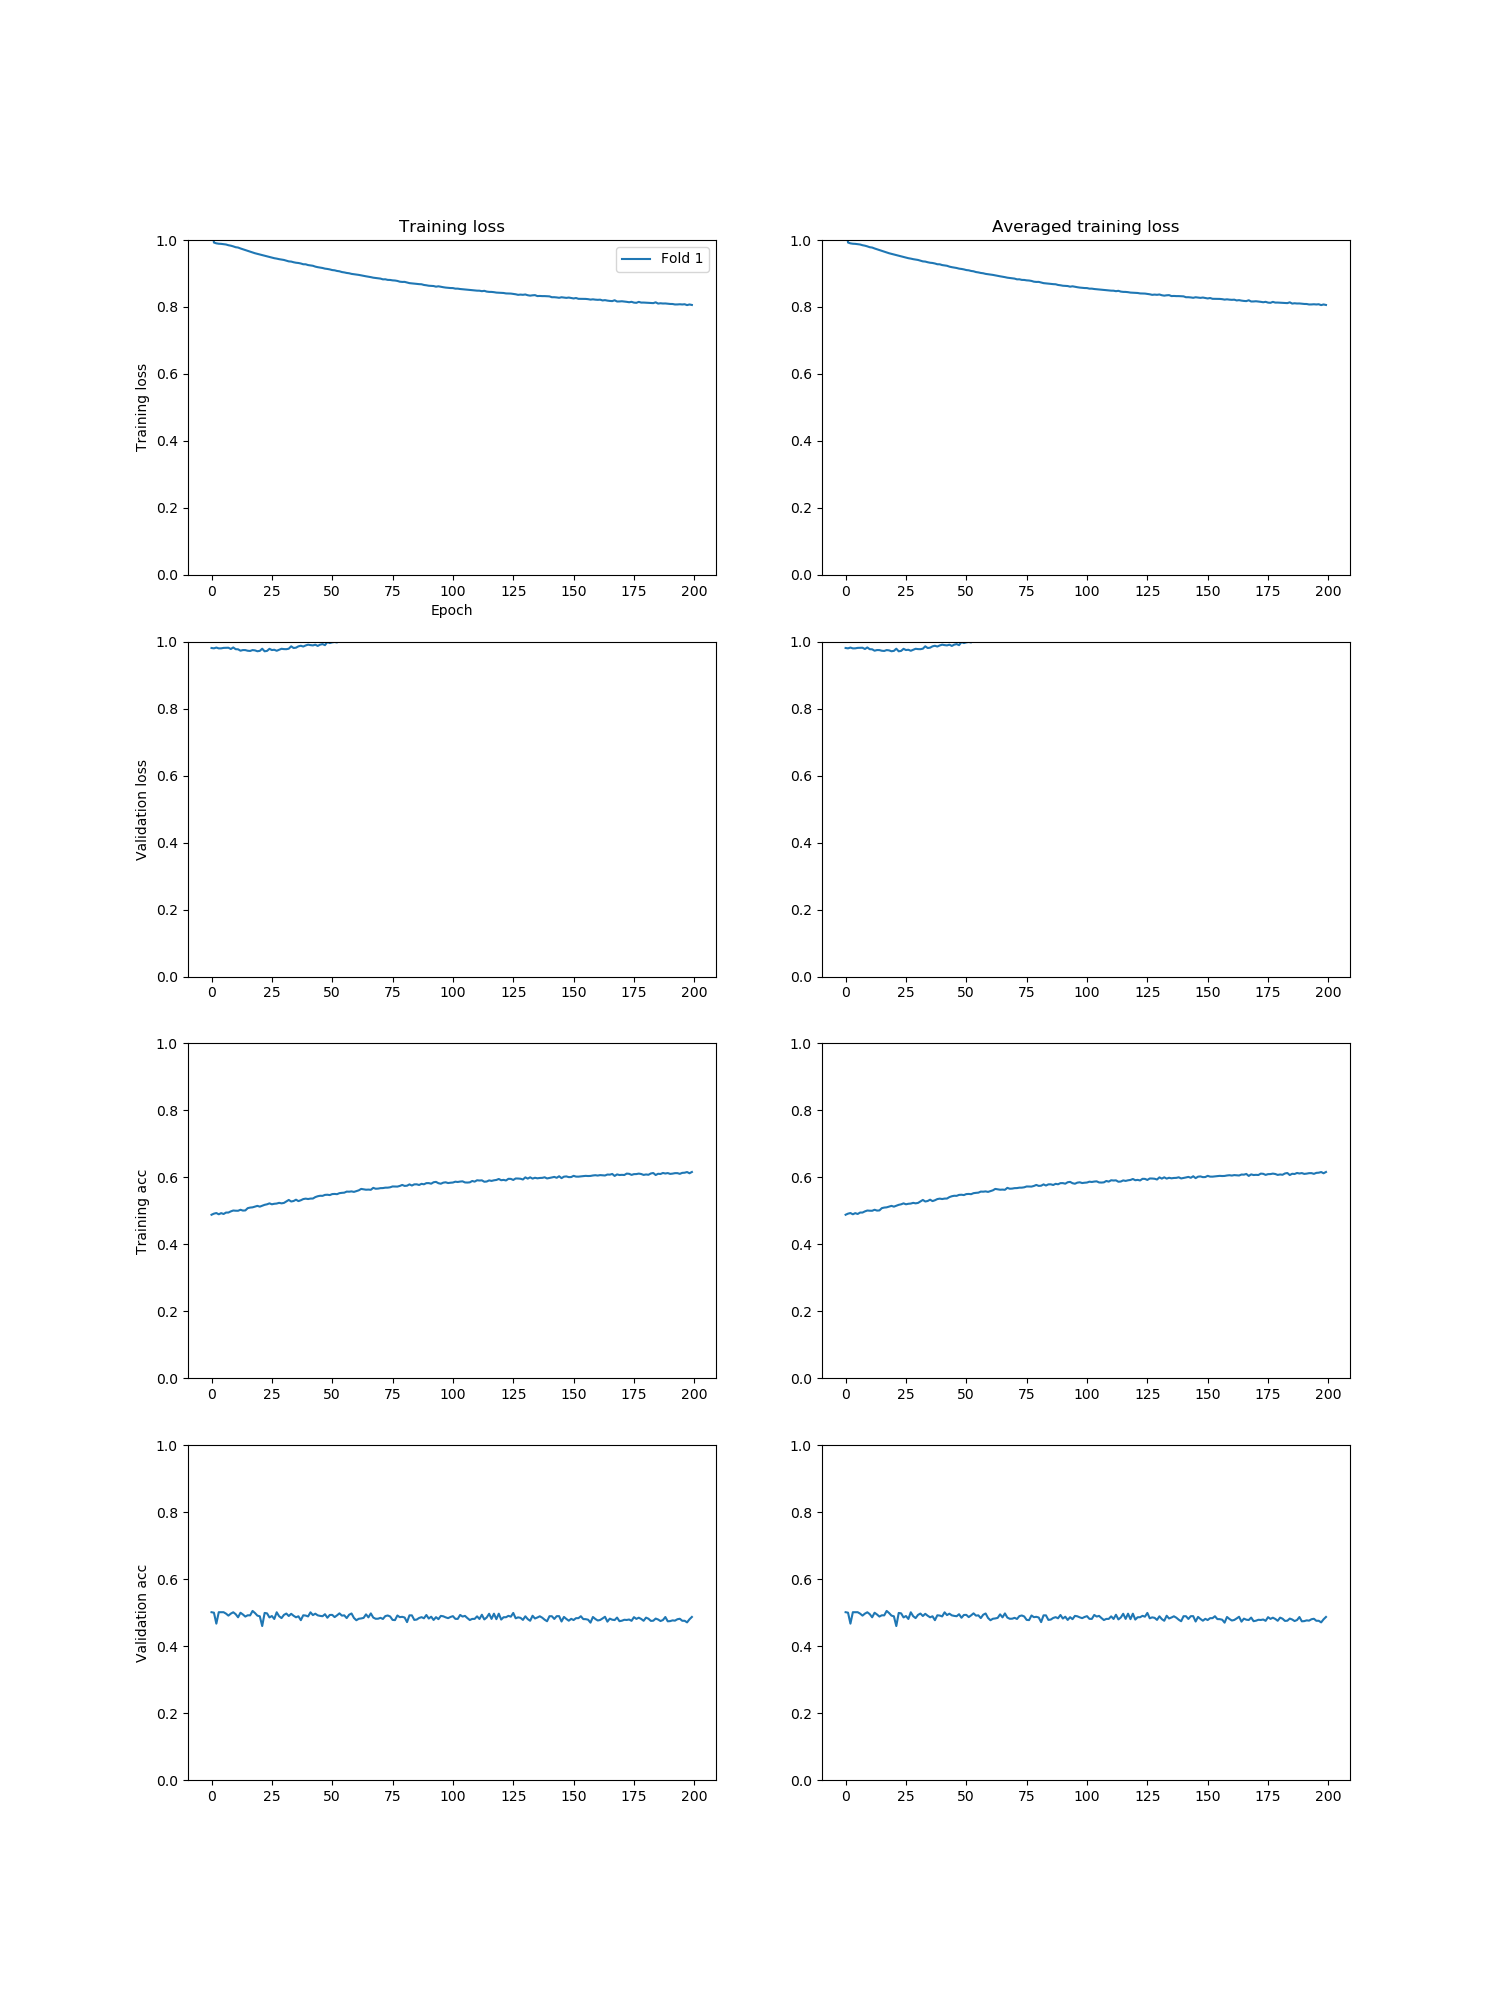
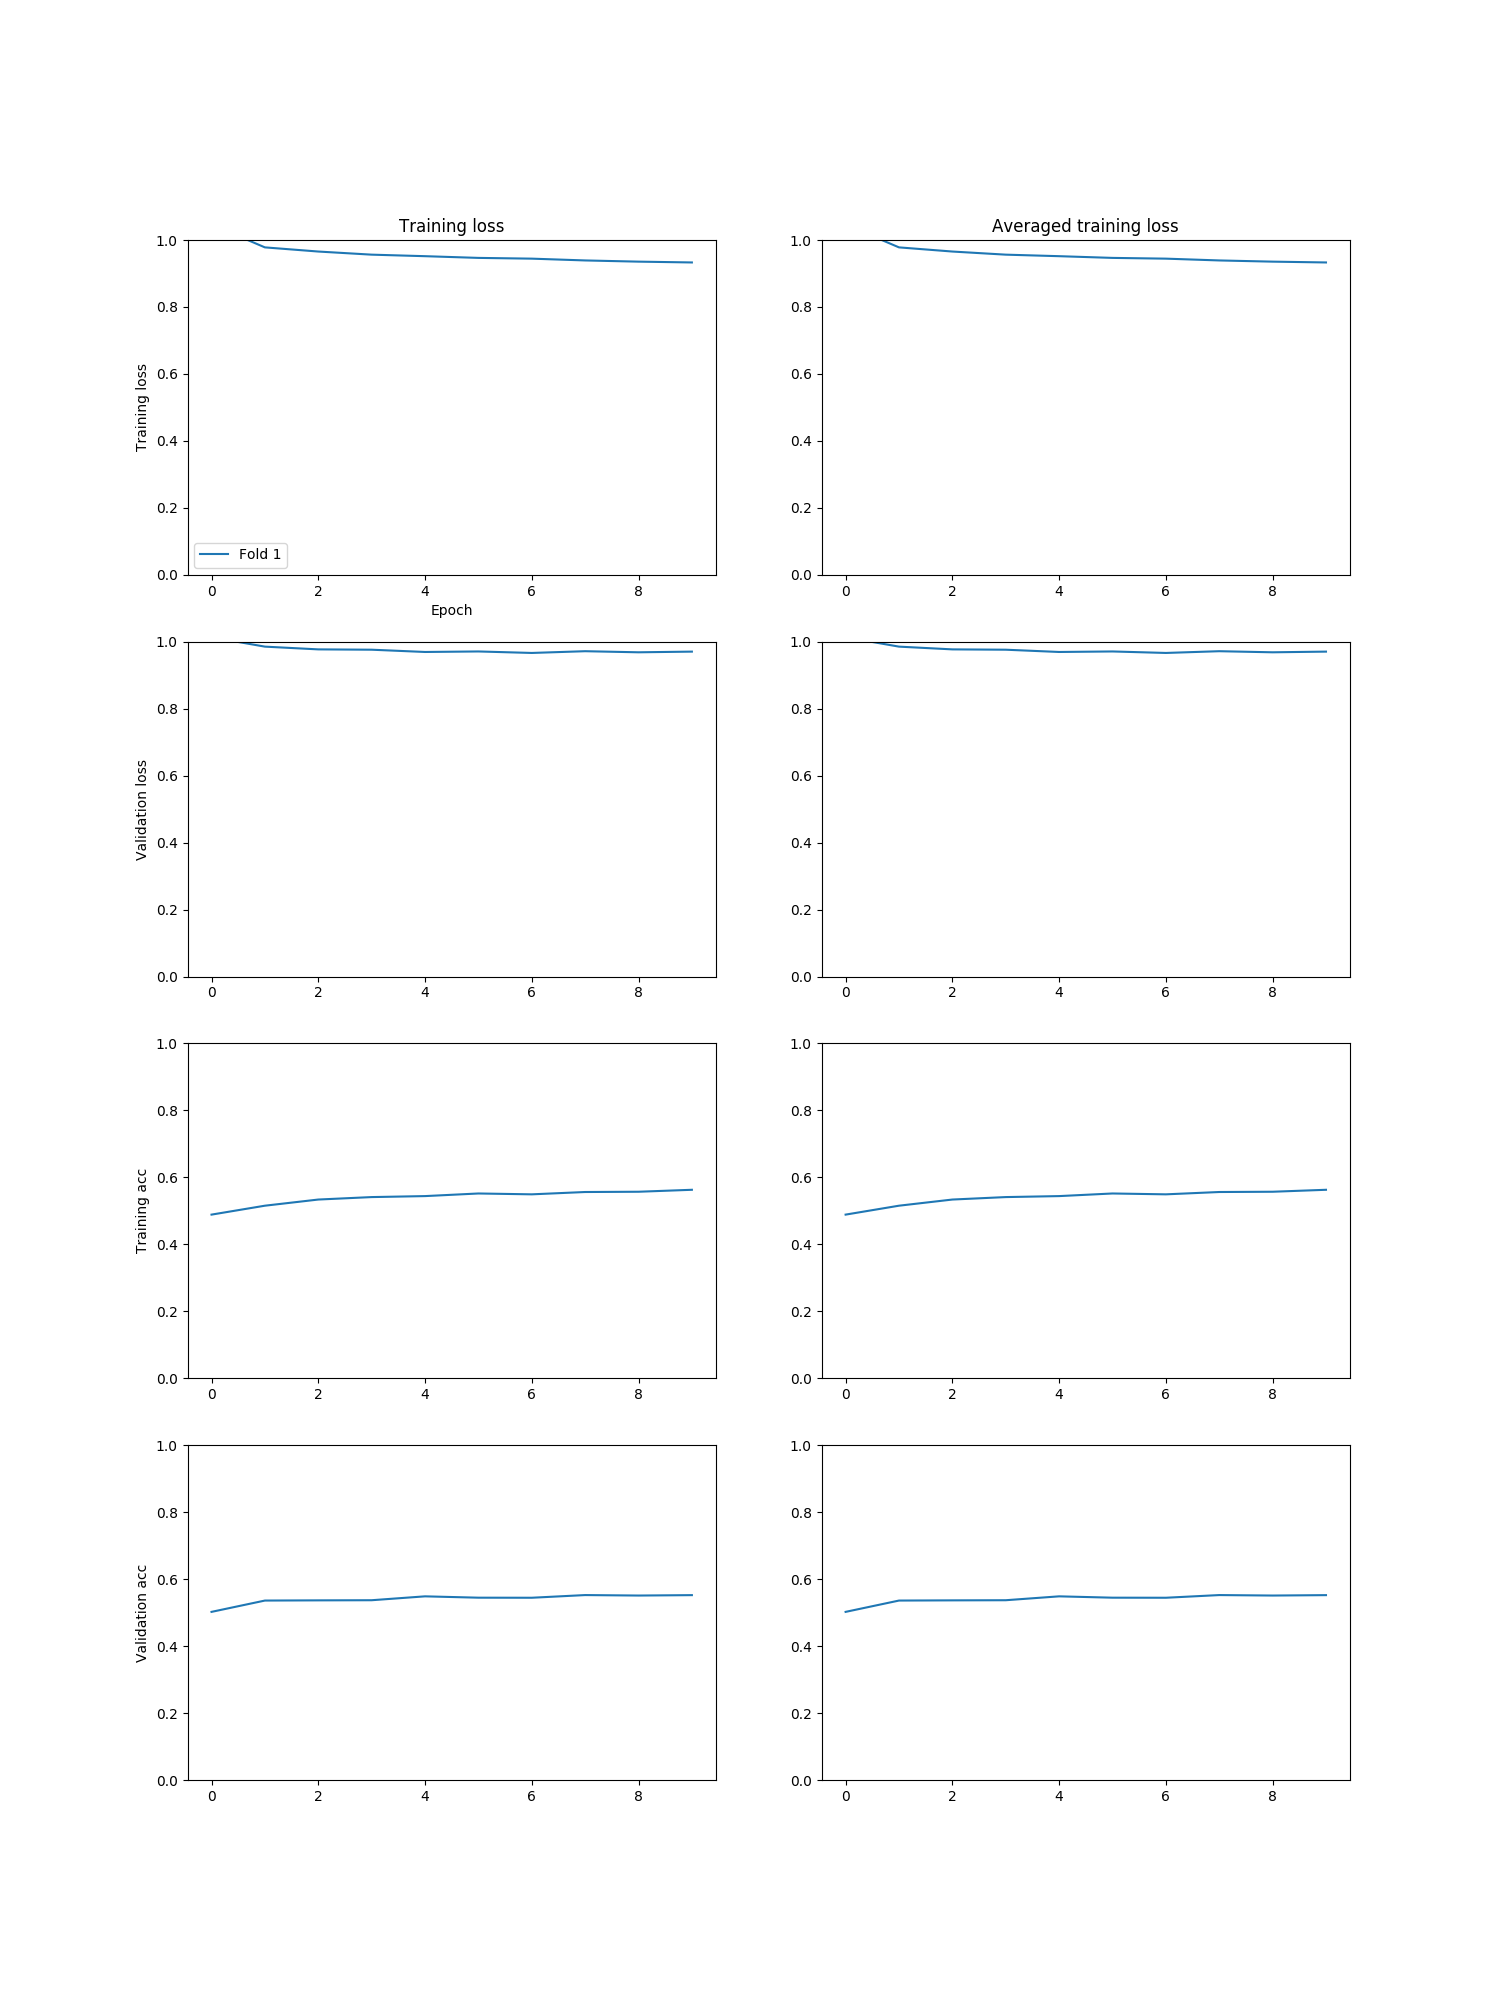
Version 2 without categorical input

Changed region(s): [[0.3987, 0.124, 0.46, 0.155], [0.736, 0.093, 0.7667, 0.124], [0.092, 0.589, 0.1227, 0.62]]

diff --git a/classification2.py b/classification2.py
@@ -4,7 +4,6 @@ import numpy as np
 from tensorflow.keras import Model
 from tensorflow.keras.layers import Input, Dense, concatenate
 from tensorflow.keras.optimizers import Adam
-from tensorflow.python.keras import utils
 
 from sklearn.metrics import roc_auc_score
 from sklearn.model_selection import KFold
@@ -27,41 +26,19 @@ def one_hot_encode(x: pd.Series) -> np.array:
 
 df_train = pd.read_csv('poker-hand-training-true.data', header=None, sep=',')
 
-features = df_train.iloc[:, :-1].copy()
-X_train = []
+X_train = df_train.iloc[:, 0:10].as_matrix()
 Y_train = one_hot_encode(df_train[len(df_train.columns) - 1])
-for feature_column_number in features:
-    X_train.append(one_hot_encode(features[feature_column_number]))
 
 
 df_test = pd.read_csv('poker-hand-testing.data', header=None, sep=',')
-features = df_test.iloc[:, :-1].copy()
-X_test = []
+X_test = df_test.iloc[:,0:10].as_matrix()
 Y_test = one_hot_encode(df_test[len(df_test.columns) - 1])
-for feature_column_number in features:
-    X_test.append(one_hot_encode(features[feature_column_number]))
 
-inputs = []
-outputs = []
-
-for i in range(0, len(X_train), 2):
-    input_figure = Input(shape=(len(X_train[i][0]),))
-    input_color = Input(shape=(len(X_train[i+1][0]),))
-
-    figure_layer = Dense(5, activation='relu', use_bias=True)(input_figure)
-    color_layer = Dense(2, activation='relu', use_bias=True)(input_color)
-    # color
-
-    card_layer = Dense(5, activation='relu', use_bias=True)(concatenate([figure_layer, color_layer]))
-    inputs.append(input_figure)
-    inputs.append(input_color)
-    outputs.append(card_layer)
-
-combined = concatenate(outputs)
-
-h1 = Dense(50, activation='relu', use_bias=True)(combined)
-h2 = Dense(30, activation='relu', use_bias=True)(h1)
-y = Dense(10, activation='softmax')(h2)
+inputs = Input(shape=(len(X_train[0]),))
+h1 = Dense(100, activation='relu', use_bias=True)(inputs)
+h2 = Dense(200, activation='relu', use_bias=True)(h1)
+h3 = Dense(100, activation='relu', use_bias=True)(h2)
+y = Dense(10, activation='softmax')(h3)
 
 loggers = []
 scores = []
@@ -71,16 +48,18 @@ k_fold = KFold(n_splits=5)
 model = Model(inputs=inputs, outputs=y)
 model.compile(loss='categorical_crossentropy', metrics=['accuracy'], optimizer=Adam())
 
-for train_index, val_index in k_fold.split(X_train[0]):
-    X_train_split = []
-    X_val = []
-    for feature_index in range(len(X_train)):
-        X_train_split.append(X_train[feature_index][train_index])
-        X_val.append(X_train[feature_index][val_index])
-    Y_train_split, Y_val = Y_train[train_index], Y_train[val_index]
+for train_index, val_index in k_fold.split(X_train):
+    result = next(k_fold.split(X_train), None)
+    print(result)
+
+    x_train = X_train[result[0]]
+    x_val = X_train[result[1]]
+
+    y_train = Y_train[result[0]]
+    y_val = Y_train[result[1]]
 
     logger = AfterEpochLogger(5)
-    model.fit(X_train_split, Y_train_split, validation_data=(X_val, Y_val), epochs=10, batch_size=32, callbacks=[logger], shuffle=True)
+    model.fit(x_train, y_train, validation_data=(x_val, y_val), epochs=10, batch_size=32, callbacks=[logger], shuffle=True)
 
     predicts_train = model.predict(X_train)
     score_train = roc_auc_score(Y_train, predicts_train, average='micro')
@@ -90,11 +69,6 @@ for train_index, val_index in k_fold.split(X_train[0]):
     print("%s %.2f%%" % ('Test data AUC value for that fold: ', score * 100))
     scores.append(score * 100)
     loggers.append(logger)
-
-    pred = utils.probas_to_classes(predicts)
-
-    false_preds = [(x, y, p) for (x, y, p) in zip(X_test, Y_test, predicts) if y.argmax(axis=-1) != p.argmax(axis=-1)]
-    print(len(false_preds))
 
 # RESULT
 

diff --git a/test.py b/test.py
@@ -1,0 +1,56 @@
+import pandas as pd
+import matplotlib.pyplot as plt
+from matplotlib import rcParams
+
+# Our deep learning library is Keras
+from keras.models import Sequential
+from keras.layers.core import Dense, Dropout
+from keras.utils.np_utils import to_categorical
+import numpy as np
+# fixed random seed for reproducibility
+np.random.seed(0)
+
+features = ['S1', 'C1', 'S2', 'C2', 'S3', 'C3', 'S4', 'C4', 'S5', 'C5', 'CLASS']
+data = pd.read_csv('poker-hand-training-true.data', names=features)
+
+nb_classes = 10  # we have 10 classes of poker hands
+cls = {}
+for i in range(nb_classes):
+    cls[i] = len(data[data.CLASS==i])
+print(cls)
+
+X_train = data.iloc[:,0:10].as_matrix()
+y_train = data.iloc[:,10].as_matrix()
+
+Y_train = to_categorical(y_train)
+
+features = ['S1', 'C1', 'S2', 'C2', 'S3', 'C3', 'S4', 'C4', 'S5', 'C5', 'CLASS']
+tdata = pd.read_csv('poker-hand-testing.data', names=features)
+
+X_test = tdata.iloc[:,0:10].as_matrix()
+y_test = tdata.iloc[:,10].as_matrix()
+Y_test = to_categorical(y_test)
+
+model2 = Sequential()
+model2.add(Dense(50, input_shape=(10,), kernel_initializer='uniform', activation='relu'))
+model2.add(Dense(50, kernel_initializer='uniform', activation='relu'))
+model2.add(Dense(nb_classes, kernel_initializer='uniform', activation='softmax'))
+
+model2.compile(loss='categorical_crossentropy', optimizer='adam', metrics=['accuracy'])
+
+h = model2.fit(
+    X_train,
+    Y_train,
+    batch_size=32,
+    epochs=200,
+    shuffle=True,
+    verbose=0
+)
+
+loss, accuracy = model2.evaluate(X_test, Y_test, verbose=0)
+print("Test: accuracy=%f loss=%f" % (accuracy, loss))
+
+y_pred = model2.predict_classes(X_test, verbose=1)
+false_preds = [(x,y,p) for (x,y,p) in zip(X_test, y_test, y_pred) if y != p]
+
+print(len(false_preds))
